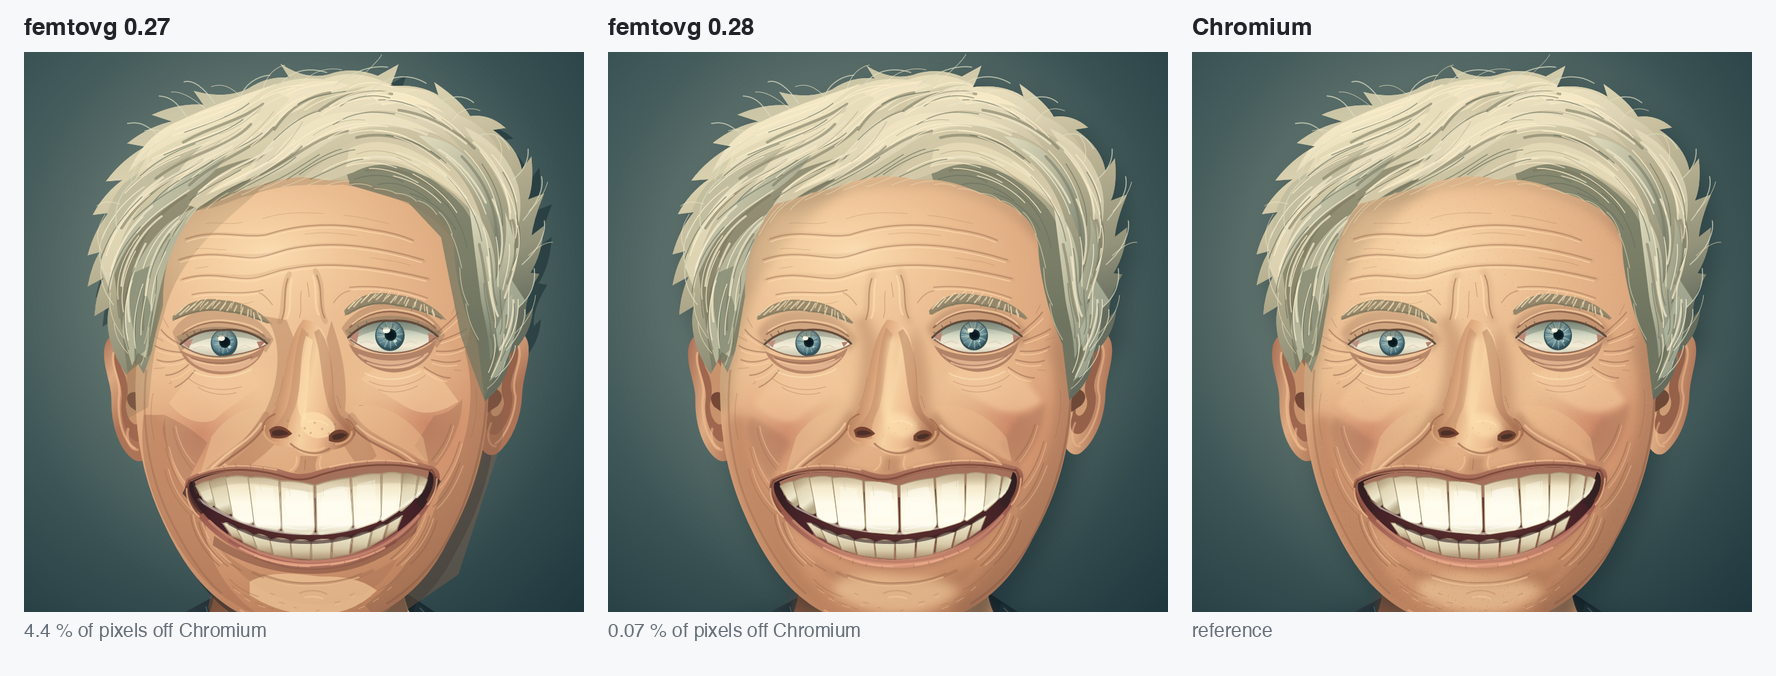
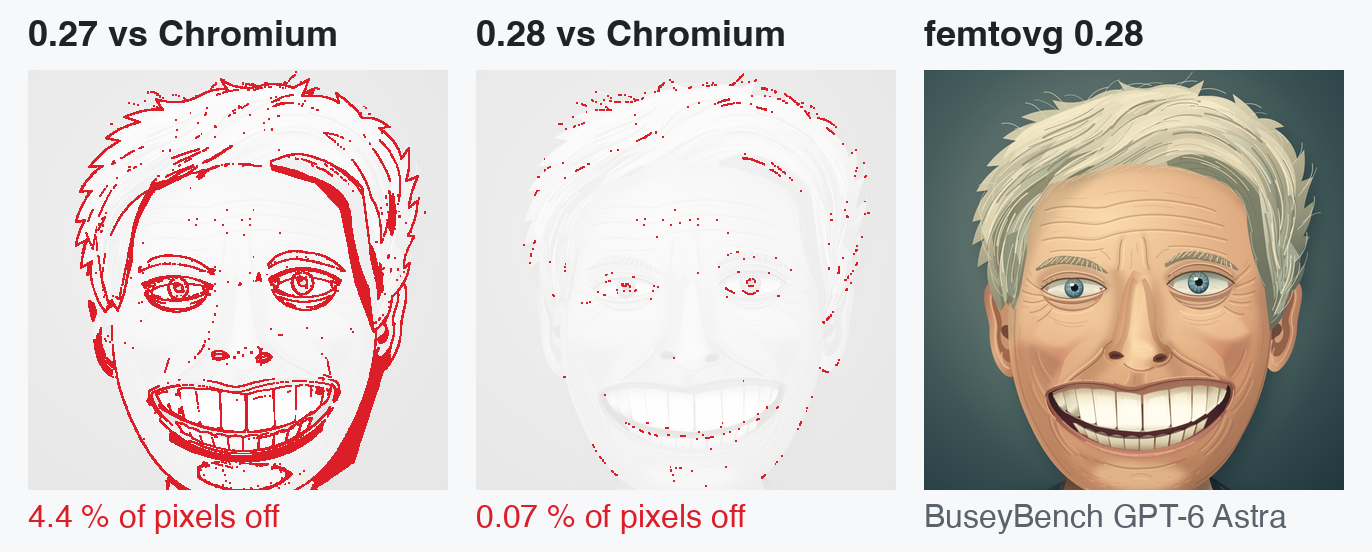
release-0.28: BuseyBench strip with difference panels for narrow screens

diff --git a/harness/release-0.28/busey_mobile.py b/harness/release-0.28/busey_mobile.py
@@ -1,0 +1,48 @@
+#!/usr/bin/env python3
+"""BuseyBench strip for narrow screens: where 0.27 and 0.28 differ from Chromium, and the 0.28 render."""
+import numpy as np
+from PIL import Image, ImageDraw, ImageFont, ImageFilter
+R = '/Users/matt/src/femtovg-wt/runs/rel028/'
+BG, INK, DIM, RED = (246, 248, 250), (31, 35, 40), (90, 98, 108), (220, 30, 40)
+F = lambda s, bold=False: ImageFont.truetype('/System/Library/Fonts/Helvetica.ttc', s, index=1 if bold else 0)
+P, G = 420, 28  # panel size, gutter
+crop = (100, 30, 980, 910)  # the face, in the 1080 px box
+
+
+def box(f):
+    return Image.open(R + f).convert('RGB').crop((420, 0, 1500, 1080))
+
+
+old, new, ref = box('v027_gpt-6-astra.ppm'), box('v028_gpt-6-astra.ppm'), box('chr_gpt-6-astra.png')
+a = {k: np.asarray(v).astype(int) for k, v in (('old', old), ('new', new), ('ref', ref))}
+
+
+def diff_panel(build):
+    off = np.abs(a[build] - a['ref']).max(2) > 20
+    share = 100 * off.mean()
+    # A pixel off stays visible at phone size: grow it 1 px, then keep any off pixel of a reduced block.
+    mask = Image.fromarray((off * 255).astype(np.uint8)).filter(ImageFilter.MaxFilter(3)).crop(crop)
+    mask = mask.resize((P, P), Image.BOX).point(lambda v: 255 if v > 0 else 0)
+    # A faint copy of the reference shows where on the face the differences are.
+    ghost = ref.crop(crop).resize((P, P), Image.LANCZOS).convert('L').point(lambda v: 225 + v * 30 // 255)
+    panel = Image.merge('RGB', [ghost] * 3)
+    panel.paste(Image.new('RGB', (P, P), RED), (0, 0), mask)
+    return panel, share
+
+
+(d_old, s_old), (d_new, s_new) = diff_panel('old'), diff_panel('new')
+render = new.crop(crop).resize((P, P), Image.LANCZOS)
+pct = lambda v: f'{v:.2f} %' if v < 1 else f'{v:.1f} %'
+cols = [(d_old, '0.27 vs Chromium', f'{pct(s_old)} of pixels off'),
+        (d_new, '0.28 vs Chromium', f'{pct(s_new)} of pixels off'),
+        (render, 'femtovg 0.28', 'BuseyBench GPT-6 Astra')]
+head, foot = 70, 62
+s = Image.new('RGB', (3 * P + 4 * G, head + P + foot), BG)
+d = ImageDraw.Draw(s)
+for k, (im, t, n) in enumerate(cols):
+    x = G + k * (P + G)
+    d.text((x, 18), t, font=F(36, True), fill=INK)
+    s.paste(im, (x, head))
+    d.text((x, head + P + 12), n, font=F(32), fill=RED if k < 2 else DIM)
+s.save(R + 'out/femtovg-0.28-buseybench.png')
+print(s.size, pct(s_old), pct(s_new))

diff --git a/harness/release-0.28/README.md b/harness/release-0.28/README.md
@@ -26,7 +26,7 @@ Developer Edition 158 (`--screenshot`, fonts copied beside the page). Chromium 1
 Amiri lines 150 px off the anchor (Firefox and femtovg agree within a pixel), so it is not used here. The 2.3 %
 left is glyph rasterization (swash vs Core Text).
 
-`strips.py` composes the strips from the renders.
+`strips.py` composes the strips from the renders; `busey_mobile.py` then replaces the BuseyBench one with a version for narrow screens: where 0.27 and 0.28 differ from Chromium by more than 20/255 (red, each such pixel grown by 1 px and kept when the panel is reduced, over a faint copy of the reference) and the 0.28 render.
 
 ## WPT SVG reftest set: frames within 0.1 % of each browser
 
